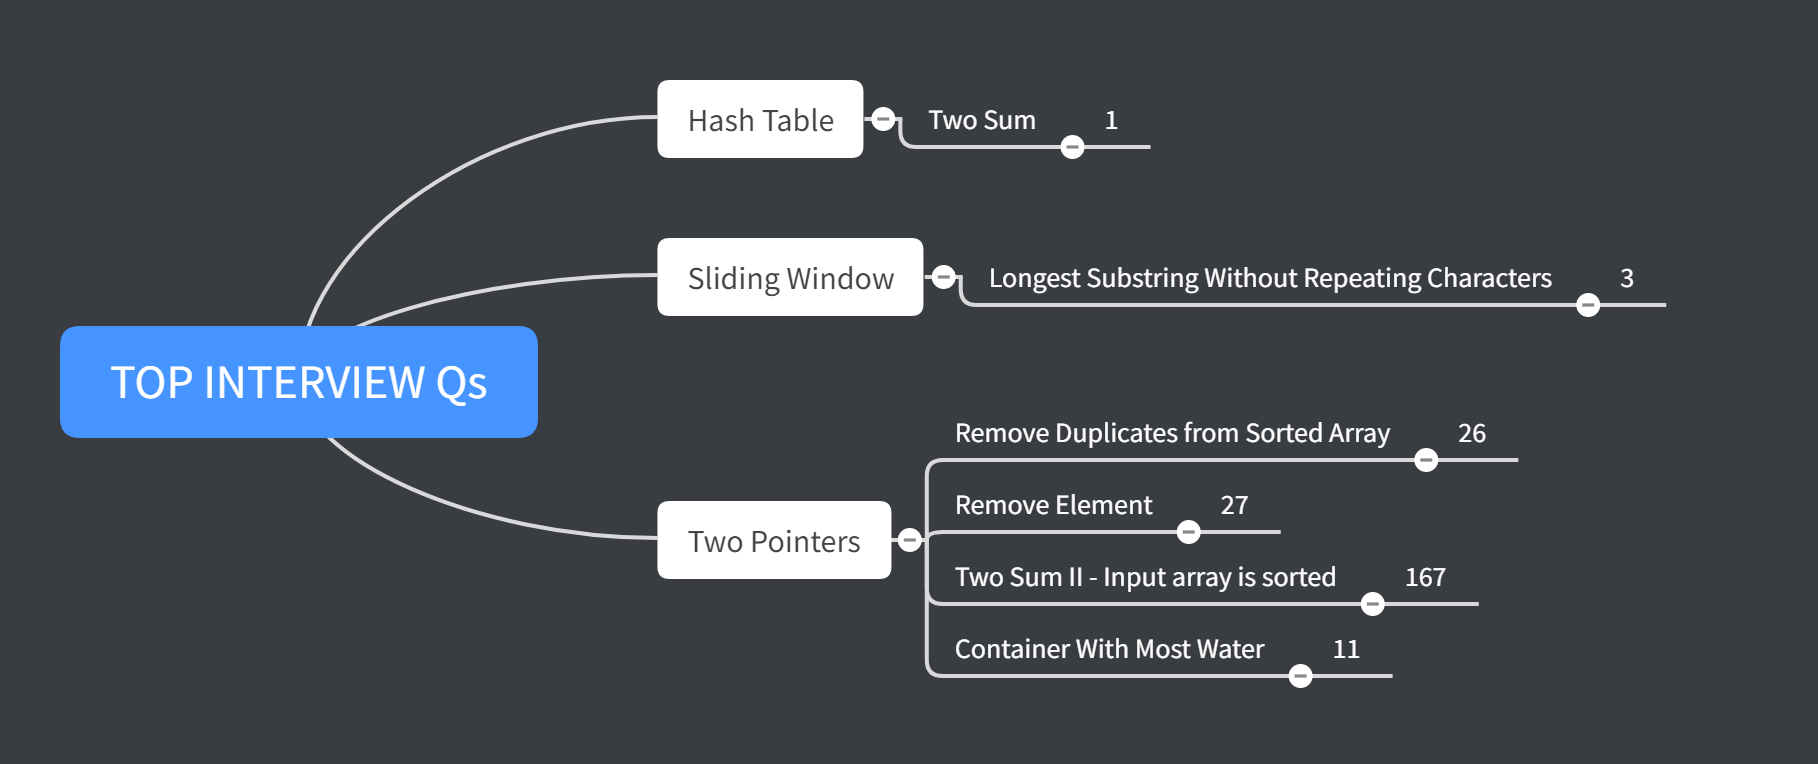
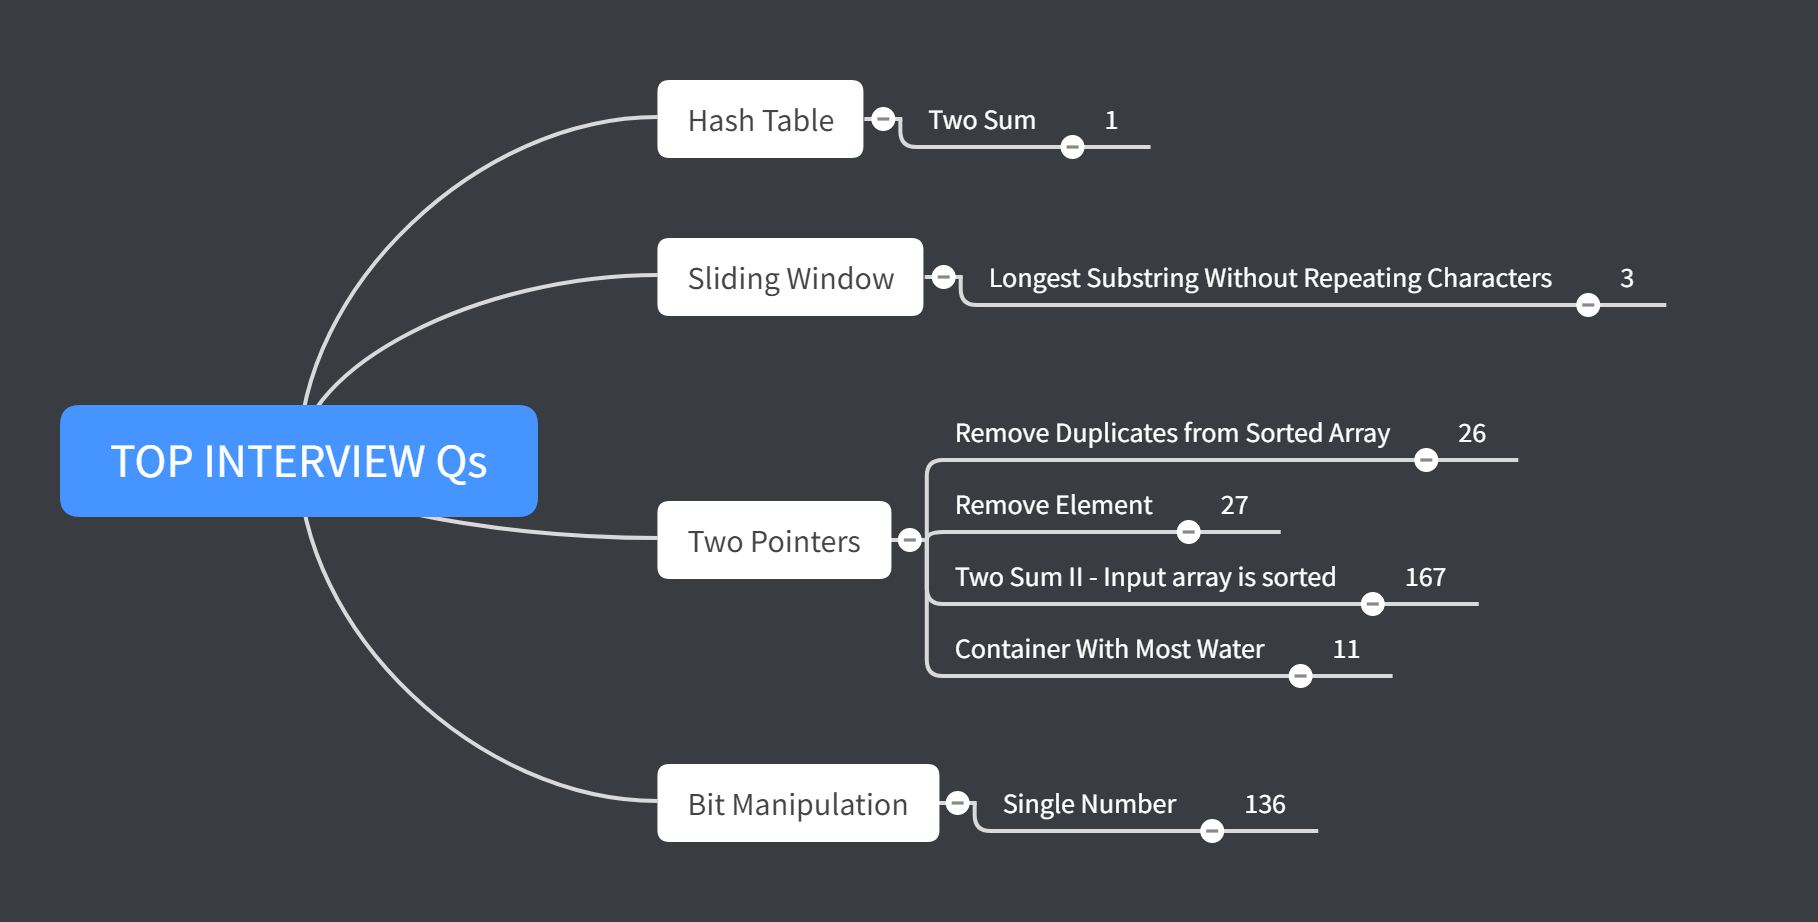
add bit manipulation

diff --git a/Java/INTERVIEW/Bit Manipulation/SingleNumber/.idea/description.html b/Java/INTERVIEW/Bit Manipulation/SingleNumber/.idea/description.html
@@ -1,0 +1,1 @@
+<html>Simple <b>Java</b> application that includes a class with <code>main()</code> method</html>

diff --git a/Python3/136.Single Number.py b/Python3/136.Single Number.py
@@ -7,7 +7,7 @@
 """
 
 
-# Solution one(sort & one pass):
+# Solution 1: (Sort & One Pass)
 
 
 class Solution:
@@ -36,7 +36,7 @@ Space Complexity: O(1)
 """
 
 
-# Solution two(hashset & one pass)
+# Solution 2: (Hashset & One pass)
 
 
 class Solution:
@@ -59,4 +59,27 @@ Memory Usage: 15 MB, less than 21.31% of Python3 online submissions for Single N
 """
 Time Complexity: O(n)
 Space Complexity: O(n)
+"""
+
+
+# Approach 3: (Bit Manipulation)
+
+
+class Solution:
+    def singleNumber(self, N: List[int]) -> int:
+        a = 0
+        for n in N:
+            a ^= n
+        return a
+
+
+"""
+Runtime: 80 ms, faster than 95.71% of Python3 online submissions for Single Number.
+Memory Usage: 15.3 MB, less than 8.20% of Python3 online submissions for Single Number.
+"""
+
+
+"""
+Time Complexity: O(n)
+Space Complexity: O(1)
 """

diff --git a/Java/INTERVIEW/Bit Manipulation/SingleNumber/src/Solution.java b/Java/INTERVIEW/Bit Manipulation/SingleNumber/src/Solution.java
@@ -1,0 +1,29 @@
+/**
+ * @Topic 136. Single Number
+ * @Author Yi Cai
+ * @Tag Bit Manipulation
+ * @Date 3/20/2020 12:16 PM
+ **/
+
+
+/*
+ * Input: [4,1,2,1,2]
+ * Explanation: (1 ^ 1) ^ (2 ^ 2) ^ 4 = 0 ^ 0 ^ 4 = 0 ^ 4 = 4
+ * Output: 4
+ * */
+
+
+class Solution {
+    public int singleNumber(int[] nums) {
+        int a = 0;
+        for (int num : nums) {
+            a ^= num;
+        }
+        return a;
+    }
+}
+
+
+// Time Complexity: O(n)
+// Space Complexity: O(1)
+

diff --git a/Java/INTERVIEW/Bit Manipulation/SingleNumber/src/Main.java b/Java/INTERVIEW/Bit Manipulation/SingleNumber/src/Main.java
@@ -1,0 +1,9 @@
+public class Main {
+
+    public static void main(String[] args) {
+        Solution solution = new Solution();
+        int[] nums = {4, 1, 2, 1, 2};
+        int result = solution.singleNumber(nums);
+        System.out.println(result);
+    }
+}
